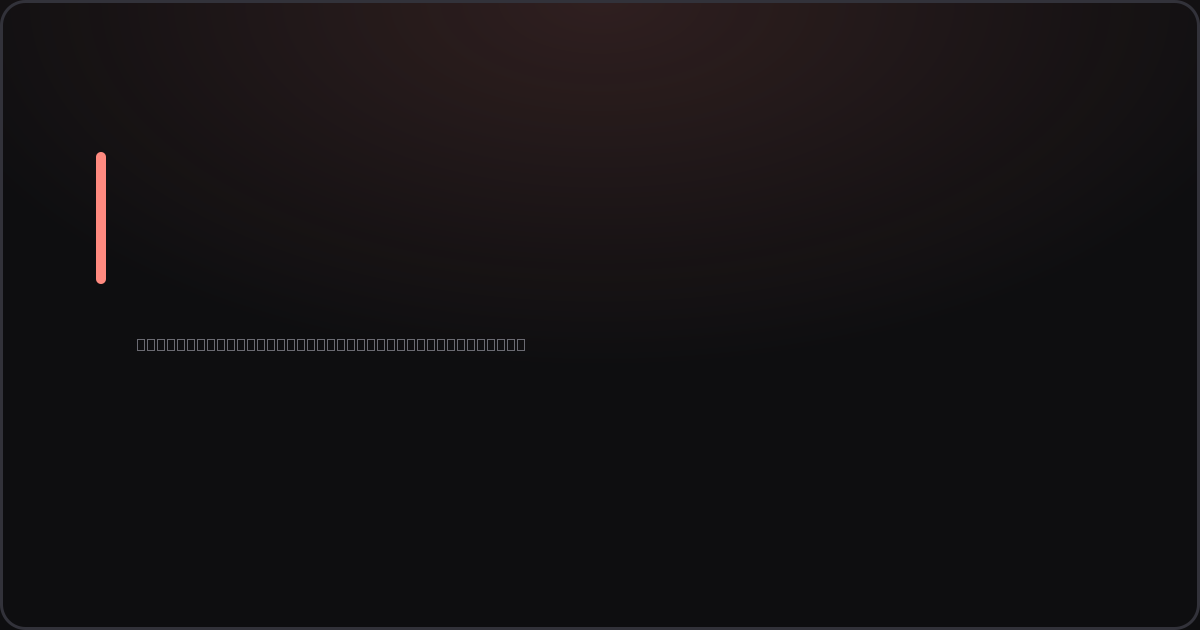
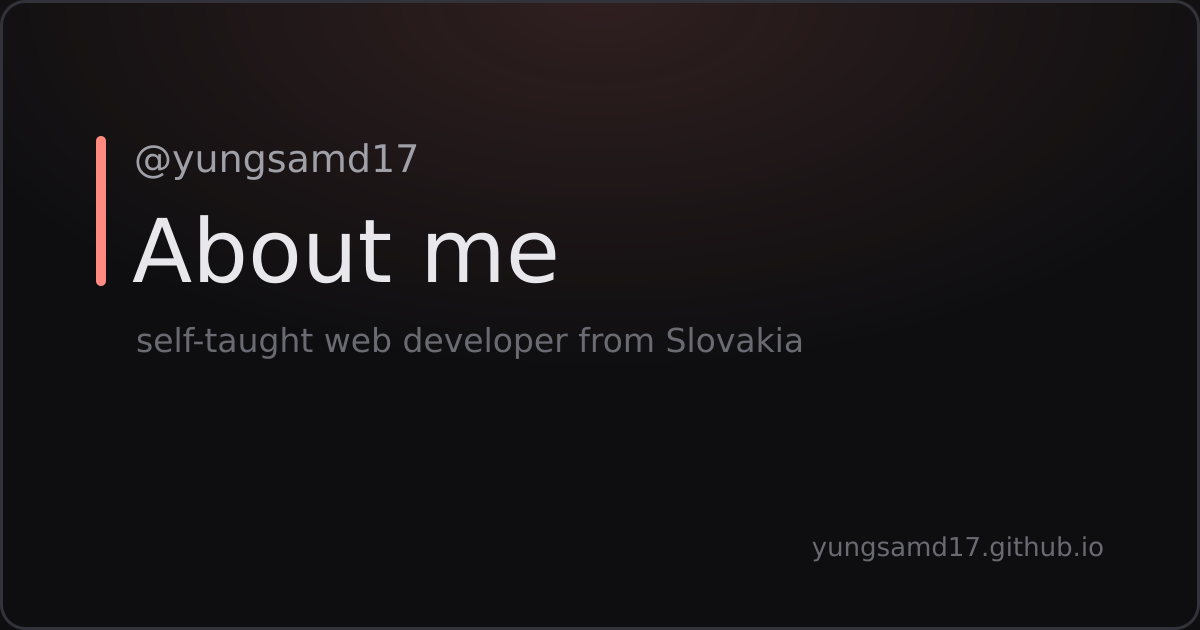
style: more spacing between handle and title on OG cards

diff --git a/src/pages/og/[slug].png.ts b/src/pages/og/[slug].png.ts
@@ -30,8 +30,8 @@ function renderSvg({ title, subtitle }: OgPage): string {
   <rect width="1200" height="630" fill="#0e0e10"/>
   <rect width="1200" height="630" fill="url(#glow)"/>
   <rect x="1.5" y="1.5" width="1197" height="627" rx="24" fill="none" stroke="#32323a" stroke-width="3"/>
-  <rect x="96" y="152" width="10" height="132" rx="5" fill="#ff8a80"/>
-  <text x="134" y="196" font-family="DejaVu Sans, Segoe UI, sans-serif" font-size="38" fill="#a0a0a8">@yungsamd17</text>
+  <rect x="96" y="136" width="10" height="150" rx="5" fill="#ff8a80"/>
+  <text x="134" y="172" font-family="DejaVu Sans, Segoe UI, sans-serif" font-size="38" fill="#a0a0a8">@yungsamd17</text>
   <text x="132" y="282" font-family="DejaVu Sans, Segoe UI, sans-serif" font-size="88" font-weight="bold" fill="#e8e8ec">${esc(title)}</text>
   ${subtitle ? `<text x="136" y="352" font-family="DejaVu Sans, Segoe UI, sans-serif" font-size="33" fill="#6a6a72">${esc(subtitle)}</text>` : ''}
   <text x="1104" y="556" text-anchor="end" font-family="DejaVu Sans, Segoe UI, sans-serif" font-size="26" fill="#6a6a72">yungsamd17.github.io</text>
